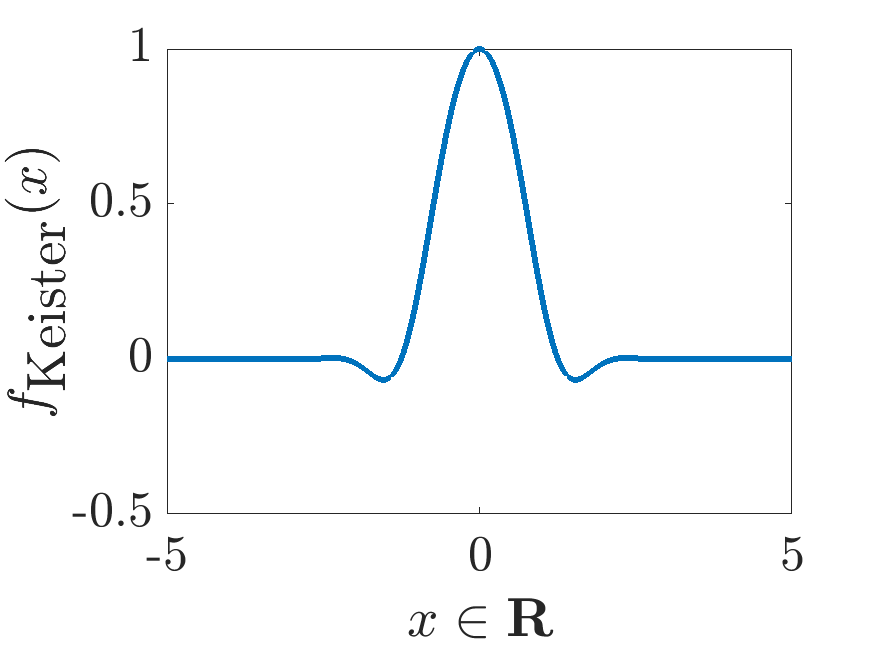
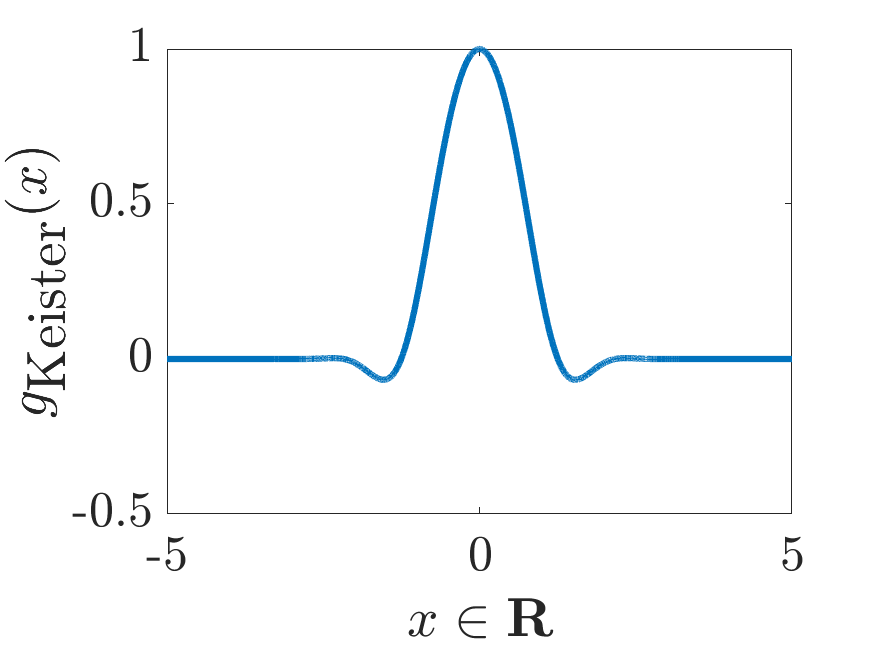
Updating the figures as per the suggestion

diff --git a/GAIL_Matlab/Papers/Thesis/Jagadees/IntegrandPlots.m b/GAIL_Matlab/Papers/Thesis/Jagadees/IntegrandPlots.m
@@ -1,30 +1,51 @@
+function IntegrandPlots()
+
+% d-3 problem reduced to d-2 using Genz method
+MVNParams.C = [4 1 1; 0 1 0.5; 0 0 0.25];
+MVNParams.Cov = MVNParams.C'*MVNParams.C;
+MVNParams.a = [-6 -2 -2];
+MVNParams.b = [5 2 1];
+MVNParams.mu = 0;
+MVNParams.CovProp.C = chol(MVNParams.Cov)';
+
+GenzFuncInp = @(x)GenzFunc(x,MVNParams);
+%% Plot the Genz function
+xplot = (0:0.002:1);
+nx = numel(xplot);
+[xx,yy] = meshgrid(xplot);
+dim = numel(MVNParams.a) - 1;
+xyplot = [xx(:) yy(:) zeros(nx*nx, dim-2)];
+  
+varTxVec = {'Baker', 'C0','C1','C1sin', 'C2sin', 'none' };
+for varTx=varTxVec
+  GenzFuncPer = cubBayesLattice_g.doPeriodTx(GenzFuncInp, varTx{1});
+  zz = reshape(GenzFuncPer(xyplot),nx,nx);
+  figH4 = figure();
+  surf(xx,yy,zz)
+  shading interp
+  xlabel('\(x_1\)')
+  ylabel('\(x_2\)')
+  if strcmp(varTx, 'none')
+    zlabel('\(f_{\textrm{Genz}}(x_1,x_2)\)')
+  else
+    zlabel('\(f_{\textrm{GenzP}}(x_1,x_2)\)')
+  end
+  view(-20,20)
+  saveas(figH4, sprintf('GenzFunc_varTx_%s.png',varTx{1}))
+end
 
 %% Plot the Keister function
 dim = 1;
   
-if 0
-  a = 0.99;
+function y = keisterFunction(x,dim,a)
+  %a = 0.8;
   normsqd = @(t) sum(t.*t,2); %squared l_2 norm of t
-  replaceZeros = @(t) (t+(t==0)*eps); % to avoid getting infinity, NaN
-  %yinv = @(t)(erfcinv( replaceZeros(abs(t)) ));  %using erfcinv is more accurate than erfinv with -1
-  yinv = @(t) erfcinv(t);
-
-  parta = @(nt,a) a^dim .*cos( a*sqrt( nt ));
-  partb = @(nt,a) exp(nt*(1-a^2));
-  fKeister = @(nt,dim,a) parta(nt,a).*partb(nt,a)*(sqrt(pi))^dim;
-  integrand = @(x) fKeister(normsqd(yinv(x)),dim,a);
-else
-  a = 0.75;
-  normsqd = @(t) sum(t.*t,2); %squared l_2 norm of t
-  replaceZeros = @(t) (t+(t==0)*eps); % to avoid getting infinity, NaN
-  %yinv = @(t)(erfcinv( replaceZeros(abs(t)) ));  %using erfcinv is more accurate than erfinv with -1
   yinv = @(t) gail.stdnorminv(t);
-
   parta = @(nt,a) a^dim .*cos( a*sqrt( nt ));
   partb = @(nt,a) exp(nt*(1-2*a^2)/2);
-  fKeister = @(nt,dim,a) parta(nt,a).*partb(nt,a)*(2*pi)^(dim/2);
-  integrand = @(x,a) fKeister(normsqd(yinv(x)),dim,a);
-
+  fKeisterR = @(nt,dim,a) parta(nt,a).*partb(nt,a)*(2*pi)^(dim/2);
+  y = fKeisterR(normsqd(yinv(x)),dim,a);
+  y(isnan(y)) = 0; % remove any NaN vlaues that could be due to Inf values from stdnorminv
 end
 
 xplot = linspace(0,1,2^10);
@@ -33,32 +54,30 @@ if dim==2
   nx = numel(xplot);
   [xx,yy] = meshgrid(xplot);
   xyplot = [xx(:) yy(:) zeros(nx*nx, dim-2)];
-  zz = reshape(integrand(xyplot),nx,nx);
+  zz = reshape(keisterFunction(xyplot,dim,0.8),nx,nx);
   figH1 = figure();
   surf(xx,yy,zz)
   shading interp
   xlabel('\(x_1\)')
   ylabel('\(x_2\)')
-  zlabel('\(\widehat{f}_{\textrm{Keister}}(x_1,x_2)\)')
+  zlabel('\({f}_{\textrm{Keister}}(x_1,x_2)\)')
   view(-20,20)
   saveas(figH1, sprintf('Keister_cube_a%d.png',ceil(a*1000)))
 else
-  pointShapes = {'o','s','d','^','v','<','>','p','h'};
   lineShapes = {'-','--',':','-.'};
 
-  pointSize=30;
   figH1=figure(); 
-  aVec = [0.75 0.9 1.2 1.9];
+  aVec = [0.8 1.5];
   for iter=1:length(aVec)
-    plot(xplot', integrand(xplot',aVec(iter)), lineShapes{iter})
+    plot(xplot', keisterFunction(xplot',1,aVec(iter)), lineShapes{iter})
     hold on
   end
   temp = string(aVec);
-  legend(temp,'location','best'); axis tight
+  temp = strcat('\(a=',temp,'\)');
+  legend(temp,'location','south'); axis tight
   xlabel('\(x\)')
-  ylabel('\(\widehat{f}_{\textrm{Keister}}(x)\)')
+  ylabel('\({f}_{\textrm{Keister}}(x)\)')
   saveas(figH1, sprintf('Keister_cube_1D.png'))
-
 end
 
 % whole R domain
@@ -82,7 +101,7 @@ else
   figH2 = figure();
   plot(xplot',fKeister(xplot'))
   xlabel('$x \in \bf{R}$', 'Interpreter','latex')
-  ylabel('$f_{\textrm{Keister}}(x)$', 'Interpreter','latex')
+  ylabel('$g_{\textrm{Keister}}(x)$', 'Interpreter','latex')
   saveas(figH2, sprintf('Keister_wholeR_1D.png'))
 end
 
@@ -107,17 +126,14 @@ saveas(figH3, sprintf('ExpCos.png'))
 
 
 %% Produce plots for MVNExample
-gail.InitializeWorkspaceDisplay %clean up 
-load MVNProbExampleAllData.mat
-markerSize = num2cell(10*ones(size(markerSize)));
 
 %% Plot the Genz function
 xplot = (0:0.002:1);
 nx = numel(xplot);
 [xx,yy] = meshgrid(xplot);
-dim = numel(MVNProbIIDGn.a) - 1;
+dim = numel(MVNParams.a) - 1;
 xyplot = [xx(:) yy(:) zeros(nx*nx, dim-2)];
-zz = reshape(MVNProbIIDGn.f(xyplot),nx,nx);
+zz = reshape(GenzFuncInp(xyplot),nx,nx);
 figH4 = figure();
 surf(xx,yy,zz)
 shading interp
@@ -127,19 +143,4 @@ zlabel('\(f_{\textrm{Genz}}(x_1,x_2)\)')
 view(-20,20)
 saveas(figH4, sprintf('GenzFun.png'))
 
-%% Plot the Affine function
-xplot = (0:0.002:1);
-nx = numel(xplot);
-[xx,yy] = meshgrid(xplot);
-dim = numel(MVNProbSobolAn.a);
-xyplot = [xx(:) yy(:) 0.5*ones(nx*nx, dim-2)];
-zz = reshape(MVNProbSobolAn.f(xyplot),nx,nx);
-figH4 = figure();
-surf(xx,yy,zz)
-shading interp
-xlabel('\(x_1\)')
-ylabel('\(x_2\)')
-zlabel('\(f_{\textrm{aff}}(x_1,x_2,1/2)\)')
-view(-45,20)
-saveas(figH4, sprintf('AffineFun.png'))
-
+end

diff --git a/GAIL_Matlab/Papers/Thesis/Jagadees/guaranteed_plot.m b/GAIL_Matlab/Papers/Thesis/Jagadees/guaranteed_plot.m
@@ -33,39 +33,35 @@ else
   set(0,'DefaultFigureVisible','on')
 end
 
+rng(202326) % control random number generation
+
 stopAtTol = true;
 alpha = 0.01;
 
-testFunArgs(1)=struct('fName','MVN','dim',2,'order',2','varTx','C0',...
-  'sampling','Lattice','arbMean',true,'fullBayes',false,'GCV',false);
-testFunArgs(2)=struct('fName','Keister','dim',4,'order',4','varTx','C2sin',...
-  'sampling','Lattice','arbMean',true,'fullBayes',false,'GCV',false);
-testFunArgs(3)=struct('fName','optPrice','dim',12,'order',2','varTx','Baker',...
-  'sampling','Lattice','arbMean',true,'fullBayes',false,'GCV',false);
+testFunArgs(2)=struct('fName','MVN','dim',2,'order',2,'varTx','C0',...
+  'sampling','Lattice','arbMean',true,'stopCriterion','GCV');
+testFunArgs(1)=struct('fName','Keister','dim',4,'order',4,'varTx','C1',...
+  'sampling','Lattice','arbMean',true,'stopCriterion','GCV');
+testFunArgs(3)=struct('fName','optPrice','dim',12,'order',2,'varTx','Baker',...
+  'sampling','Lattice','arbMean',true,'stopCriterion','GCV');
 
 for i=1:3
   testFunArgs(i+3)=testFunArgs(i);
-  testFunArgs(i+3).fullBayes=true;
+  testFunArgs(i+3).stopCriterion='full';
 end
 for i=1:3
   testFunArgs(i+6)=testFunArgs(i);
-  testFunArgs(i+6).GCV=true;
+  testFunArgs(i+6).stopCriterion='MLE';
 end
 
 for testFunArg=testFunArgs(1:end)
   
-  stopCrit='MLE';
-  if testFunArg.fullBayes
-    stopCrit='FB';
-  end
-  if testFunArg.GCV
-    stopCrit='GCV';
-  end
+  stopCrit=testFunArg.stopCriterion;
   
   fName = testFunArg.fName;
   
-  if ~strcmp(fName, 'optPrice')
-    continue
+  if ~strcmp(fName, 'Keister')
+    %continue
   end
   tstart=tic;
   muhatVec = [];
@@ -75,18 +71,12 @@ for testFunArg=testFunArgs(1:end)
   tolVec = [];
   outStructVec = {};
   indx = 1;
-  %pdTx = {'Baker', 'C0',};  % 'C1','C1sin', 'C2sin', };  %, 'none'
-  %arbMeanType = [true,false];
-  %samplingMethod = {'Lattice',}; %'Sobol',
-  %log10ErrVec = -5:1:-2;
-  log10ErrVec = -4:1:-1;
-  %errTolVecText = {'1e-5','1e-4','1e-3','1e-2',};
+  log10ErrVec = -4:1:-1; 
   errTolVecText = arrayfun(@(x){sprintf('1e%d', x)}, log10ErrVec);
   errTolVec = 10.^log10ErrVec;
-  
   sampling = testFunArg.sampling;
   
-  for errTol=errTolVec
+  for errTol=errTolVec(1:end)
     errTol;
     
     arbMean=testFunArg.arbMean;
@@ -100,8 +90,8 @@ for testFunArg=testFunArgs(1:end)
     dim=testFunArg.dim;
     bern=testFunArg.order;
     
-    inputArgs = {'dim',dim, 'absTol',errTol, 'order',bern, 'GCV',testFunArg.GCV...
-      'ptransform',vartx, 'stopAtTol',stopAtTol, 'fullBayes',testFunArg.fullBayes...
+    inputArgs = {'dim',dim, 'absTol',errTol, 'order',bern, 'ptransform',vartx, ....
+      'stopAtTol',stopAtTol, 'stopCriterion',testFunArg.stopCriterion...
       'figSavePath',newPath, 'arbMean',arbMean, 'alpha',alpha ...
       'samplingMethod',sampling, 'visiblePlot',visiblePlot};
     testFun = '';
@@ -140,8 +130,8 @@ for testFunArg=testFunArgs(1:end)
   toc(tstart)
   timeStamp = datetime('now','Format','d-MMM-y HH-mm-ss');
   
-  datFileName=sprintf('%sGuaranteed_plot_data_%s_%s_%s_%s.mat',...
-    figSavePath,fName,stopCrit,vartx,timeStamp);
+  datFileName=sprintf('%sGuaranteed_plot_data_%s_%s_%s_d%d_r%d_%s.mat',...
+    figSavePath,fName,stopCrit,vartx,testFunArg.dim,testFunArg.order,timeStamp);
   save(datFileName,...
     'errVec','timeVec','tolVec', 'errTolVec',...
     'outStructVec','testFunArg','log10ErrVec','errTolVecText','fName',...
@@ -165,7 +155,7 @@ for testFunArg=testFunArgs(1:end)
   
   figHn = figure();
   set(figHn, 'units', 'inches', 'Position', [1 1 9 6])
-  errVecLimits = [1E-12, 1E2];
+  errVecLimits = [1E-15, 1E2];
   mvec = outStructVec{1}(1).mvec;
   nptsLimits = [2^(mvec(1)-1), 2^(mvec(end)+1)];
   plot([1, 1], nptsLimits, 'r', 'LineWidth',1)
@@ -201,8 +191,8 @@ for testFunArg=testFunArgs(1:end)
 %   title(sprintf('%s d %d r %d %s %s', testFunArg.fName, ...
 %                 testFunArg.dim, testFunArg.order, testFunArg.varTx, mType));
   
-  figSavePathName = sprintf('%s%s_guaranteed_npts_%s_%s_%s.png', ...
-    figSavePath, fName,stopCrit,vartx,timeStamp );
+  figSavePathName = sprintf('%s%s_guaranteed_npts_%s_%s_d%d_r%d_%s.png', ...
+    figSavePath, fName,stopCrit,vartx,testFunArg.dim,testFunArg.order,timeStamp );
   saveas(figHn, figSavePathName)
   
   %%%%%%%%%%%%%%%%%%%%%%%%%%%%%%%%%%%%%%%%%%%%%%%%%%%%%%%%%%%%%%%%%%%%%%%%%%%
@@ -236,8 +226,8 @@ for testFunArg=testFunArgs(1:end)
     'YTick',(10.^(log10(timeLimits(1)) :2:log10(timeLimits(2)))))
   %title(sprintf('%s d %d r %d %s %s', testFunArg.fName, ...
   %              testFunArg.dim, testFunArg.order, testFunArg.varTx, mType));  
-  figSavePathName = sprintf('%s%s_guaranteed_time_%s_%s_%s.png', ...
-    figSavePath, fName,stopCrit,vartx,timeStamp );
+  figSavePathName = sprintf('%s%s_guaranteed_time_%s_%s_d%d_r%d_%s.png', ...
+    figSavePath, fName,stopCrit,vartx,testFunArg.dim,testFunArg.order,timeStamp );
   saveas(figH, figSavePathName)
   
 end

diff --git a/GAIL_Matlab/Papers/Thesis/Jagadees/TestKeisterBayesianCubature.m b/GAIL_Matlab/Papers/Thesis/Jagadees/TestKeisterBayesianCubature.m
@@ -44,19 +44,7 @@ fName='Keister';
 % %   integrand = @(x) fKeister(normsqd(yinv(x)),dim,a);
 % end
 
-function y = keisterFunction(x,dim)
-  a = 0.8;
-  normsqd = @(t) sum(t.*t,2); %squared l_2 norm of t
-  yinv = @(t) gail.stdnorminv(t);
-
-  parta = @(nt,a) a^dim .*cos( a*sqrt( nt ));
-  partb = @(nt,a) exp(nt*(1-2*a^2)/2);
-  fKeister = @(nt,dim,a) parta(nt,a).*partb(nt,a)*(2*pi)^(dim/2);
-  y = fKeister(normsqd(yinv(x)),dim,a);
-  y(isnan(y)) = eps; % remove any NaN vlaues that could be due to Inf values from stdnorminv
-end
-
-integrand = @(x) keisterFunction(x, dim);
+integrand = @(x) keisterFunc(x, dim);
 exactInteg = Keistertrue(dim);
 
 % set the output dir to save the plots        
@@ -82,6 +70,7 @@ end
 nRep = 100;
 muhatVec = zeros(nRep,1);
 
+%plotObjectiveFunc(obj)
 for i=1:nRep
   [muhatVec(i),outVec(i)]=compInteg(obj);
 end

diff --git a/GAIL_Matlab/Papers/Thesis/Jagadees/TestMVN_BayesianCubature.m b/GAIL_Matlab/Papers/Thesis/Jagadees/TestMVN_BayesianCubature.m
@@ -114,28 +114,6 @@ end
 %% Save output
 %save MVNProbExampleAllData.mat
 
-function fval = GenzFunc(w,obj)
-dim = numel(obj.a);
-nn = size(w,1);
-am = obj.a - obj.mu;
-bm = obj.b - obj.mu;
-a1 = am(1)/obj.CovProp.C(1,1);
-b1 = bm(1)/obj.CovProp.C(1,1);
-d = gail.stdnormcdf(a1);
-e = gail.stdnormcdf(b1);
-fval = (e-d)*ones(nn,1);
-y = zeros(nn,dim-1);
-for i = 2:dim
-  y(:,i-1) = gail.stdnorminv(d+w(:,i-1).*(e-d));
-  aux = sum(bsxfun(@times,obj.CovProp.C(i,1:i-1),y(:,1:i-1)),2);
-  a1 = (am(i)-aux)/obj.CovProp.C(i,i);
-  b1 = (bm(i)-aux)/obj.CovProp.C(i,i);
-  d = gail.stdnormcdf(a1);
-  e = gail.stdnormcdf(b1);
-  fval = fval .* (e-d);
-end
-end
-
 function muBest = computeGoldenMuhat(MVNParams)
 
 if 0

diff --git a/GAIL_Matlab/Papers/Thesis/Jagadees/GenzFunc.m b/GAIL_Matlab/Papers/Thesis/Jagadees/GenzFunc.m
@@ -1,0 +1,22 @@
+
+function fval = GenzFunc(w,params)
+dim = numel(params.a);
+nn = size(w,1);
+am = params.a - params.mu;
+bm = params.b - params.mu;
+a1 = am(1)/params.CovProp.C(1,1);
+b1 = bm(1)/params.CovProp.C(1,1);
+d = gail.stdnormcdf(a1);
+e = gail.stdnormcdf(b1);
+fval = (e-d)*ones(nn,1);
+y = zeros(nn,dim-1);
+for i = 2:dim
+  y(:,i-1) = gail.stdnorminv(d+w(:,i-1).*(e-d));
+  aux = sum(bsxfun(@times,params.CovProp.C(i,1:i-1),y(:,1:i-1)),2);
+  a1 = (am(i)-aux)/params.CovProp.C(i,i);
+  b1 = (bm(i)-aux)/params.CovProp.C(i,i);
+  d = gail.stdnormcdf(a1);
+  e = gail.stdnormcdf(b1);
+  fval = fval .* (e-d);
+end
+end

diff --git a/GAIL_Matlab/Papers/Thesis/Jagadees/keisterFunc.m b/GAIL_Matlab/Papers/Thesis/Jagadees/keisterFunc.m
@@ -1,0 +1,12 @@
+
+function y = keisterFunc(x,dim)
+  a = 0.8;
+  normsqd = @(t) sum(t.*t,2); %squared l_2 norm of t
+  yinv = @(t) gail.stdnorminv(t);
+
+  parta = @(nt,a) a^dim .*cos( a*sqrt( nt ));
+  partb = @(nt,a) exp(nt*(1-2*a^2)/2);
+  fKeister = @(nt,dim,a) parta(nt,a).*partb(nt,a)*(2*pi)^(dim/2);
+  y = fKeister(normsqd(yinv(x)),dim,a);
+  y(isnan(y)) = 0; % remove any NaN vlaues that could be due to Inf values from stdnorminv
+end

diff --git a/GAIL_Matlab/Papers/Thesis/Jagadees/plot_fourier_kernel.m b/GAIL_Matlab/Papers/Thesis/Jagadees/plot_fourier_kernel.m
@@ -26,6 +26,8 @@ if dim==1
   end
 
   plot(xpts,Z)
+  xlabel('\(x\)')
+  ylabel('\(C_{\theta}(x,0.3)\)')
   legend(leg_text, 'Interpreter','latex','location','best')
   axis tight
 
